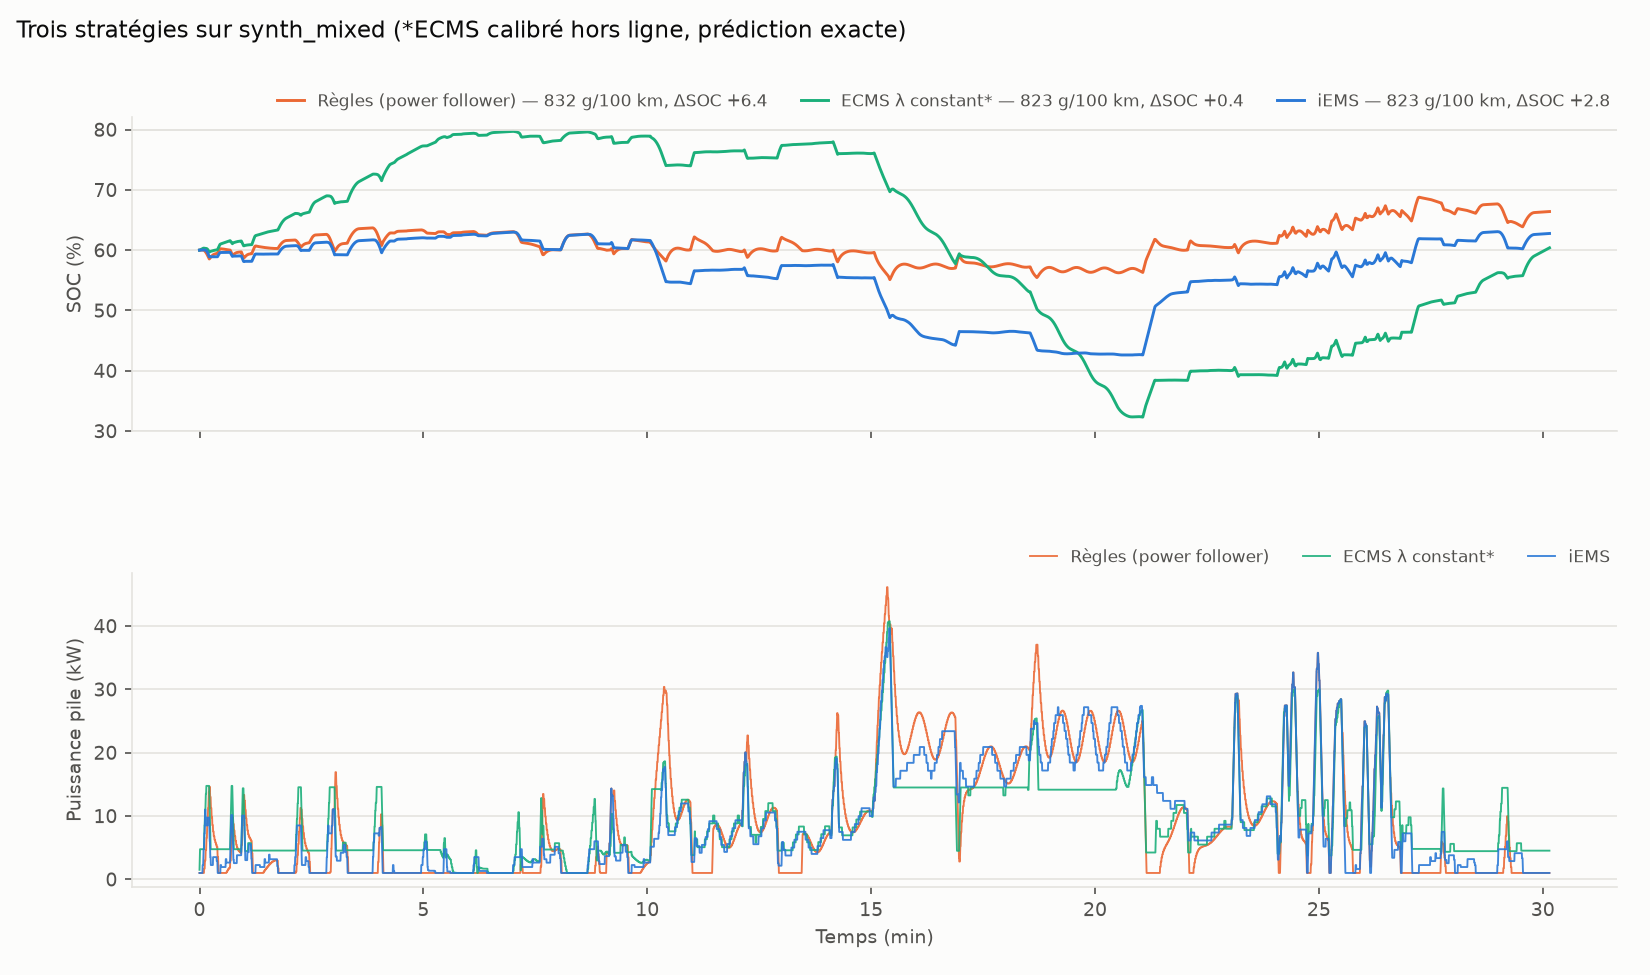
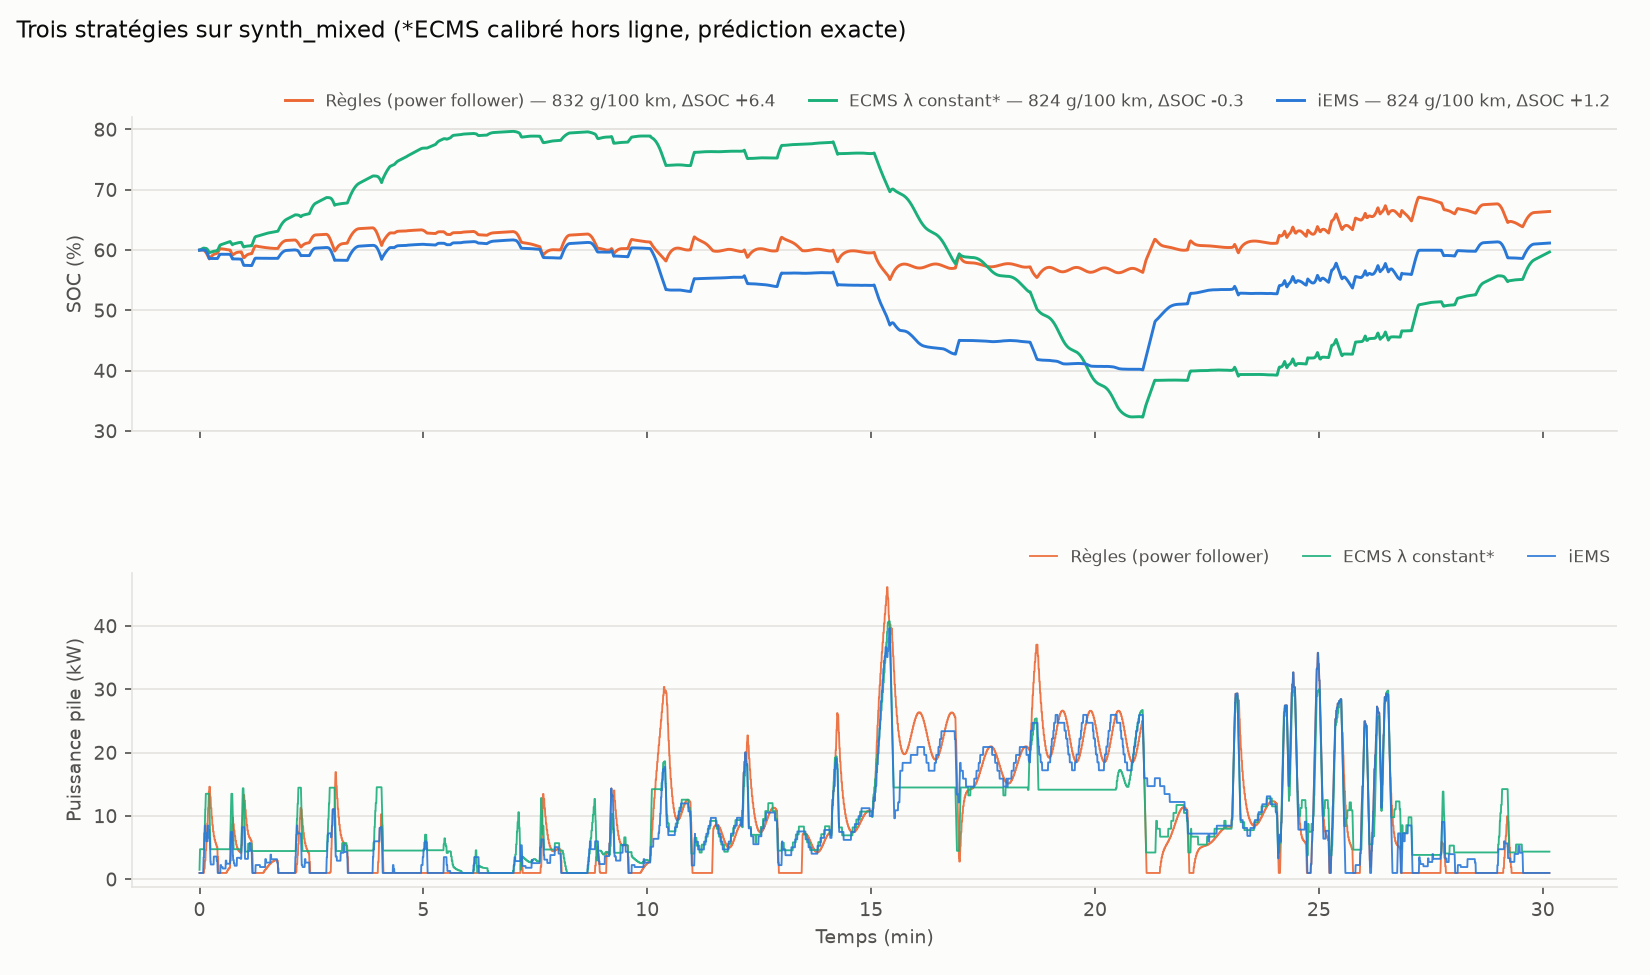
fix(ems): corrections issues de la revue de conformité à la passation
- λ0 = 1,51 = λ* de la dichotomie ecms_const sur WLTC (1,55 faisait dériver l'ECMS
  de +10 pts et saturer la batterie : 311 dépassements à l'arrêt)
- une seule estimation de la demande du prochain intervalle (CandidateSet.P_dem_next)
  pour l'admissibilité, le Hamiltonien et BAT_Power_cmd
- prédicteur : erreurs spécifiées à τ = 10 s quelle que soit la longueur de l'horizon
- config : validation de usage_table, with_updates typé et strict, P_min_W > 0,
  étiquettes de source (# littérature / # TODO-thèse) sur toutes les constantes
- DPR : seuils recalés par grille (sportif 1,3 m/s², autoroute 95 km/h ; précision
  moyenne 0,80 -> 0,87), min_samples borné par la fenêtre
- simulateur : masse d'H2 intégrée et journalisée (m_h2), garde sur cycle trop court ;
  candidates : garde sur prédiction vide ; ramp_limits robuste hors plage
- make_strategy ne masque plus les KeyError des constructeurs
- examples : sortie console UTF-8 ; rapport M1 régénéré (6/6, ΔSOC WLTC −0,55 pt)

diff --git a/src/iems/config.py b/src/iems/config.py
@@ -35,7 +35,7 @@ class FuelCellParams(_Params):
     """Système pile à combustible : carte de rendement en cloche, bornes et rampe."""
 
     P_max_W: float = Field(95e3, gt=0)  # TODO-thèse
-    P_min_W: float = Field(1e3, ge=0)  # TODO-thèse : puissance de ralenti
+    P_min_W: float = Field(1e3, gt=0)  # TODO-thèse : ralenti (v1 : la pile ne se coupe pas)
     ramp_W_per_s: float = Field(5e3, gt=0)  # TODO-thèse : rampe BOP
     # Carte η(P/P_max) en cloche : ≈0,40 à 3 %, pic ≈0,58 vers 20 %, ≈0,45 à pleine charge
     # (littérature : allure typique d'un système PEMFC automobile avec auxiliaires). Les points
@@ -117,10 +117,11 @@ class EMSParams(_Params):
 
     # Co-état λ (facteur d'équivalence, sans dimension grâce à k_h, cf. optimizer.py).
     # λ0 calibré en M1 par dichotomie ECMS sur WLTC (voir examples/compare_strategies.py).
-    lambda0: float = 1.55  # TODO-thèse : recalé par calibration ecms_const (M1)
+    # λ0 = λ* de la dichotomie ecms_const sur WLTC (examples/compare_strategies.py) — TODO-thèse
+    lambda0: float = 1.51
     Kp: float = 5.0  # TODO-thèse : gain proportionnel d'adaptation du co-état
-    lambda_min: float = 0.5
-    lambda_max: float = 5.0
+    lambda_min: float = 0.5  # littérature : bornes larges du facteur d'équivalence
+    lambda_max: float = 5.0  # littérature
 
     # Balance : usage batterie = table(schéma) modulée par SOC et vitesse normalisés.
     usage_table: dict[DrivingPattern, float] = Field(default_factory=_default_usage_table)
@@ -132,24 +133,25 @@ class EMSParams(_Params):
     v_norm_max: float = 36.1  # 130 km/h : vitesse de normalisation
 
     # Admissibilité : marge de sécurité appliquée aux limites batterie dans l'anticipation.
-    safety_margin: float = Field(0.05, ge=0, lt=1)  # relative
-    safety_margin_W: float = Field(1e3, ge=0)  # absolue (W)
+    safety_margin: float = Field(0.05, ge=0, lt=1)  # relative — TODO-thèse
+    safety_margin_W: float = Field(1e3, ge=0)  # absolue (W) — TODO-thèse
     prediction_margin: float = Field(0.05, ge=0, lt=1)  # relative à la demande prédite
     prediction_margin_accel: float = Field(0.10, ge=0)  # m/s² : incertitude d'accélération à 1 s
 
     # DPR v1 (règles à seuils sur fenêtre glissante).
-    dpr_window_s: float = Field(60.0, gt=0)
+    dpr_window_s: float = Field(60.0, gt=0)  # TODO-thèse : fenêtre glissante du DPR
 
     # Prédicteur v1 (oracle bruité).
-    predictor_noise: float = Field(0.03, ge=0)  # écart-type du biais d'amplitude à t+Hp
-    predictor_time_warp: float = Field(0.03, ge=0)  # écart-type de l'étirement temporel
-    seed: int = 42
+    # Erreurs spécifiées à τ = 10 s (NOISE_HORIZON_S), ordre de grandeur LSTM de la littérature.
+    predictor_noise: float = Field(0.03, ge=0)  # écart-type relatif du biais d'amplitude à 10 s
+    predictor_time_warp: float = Field(0.03, ge=0)  # écart-type de l'erreur de calendrier à 10 s
+    seed: int = 42  # déterminisme (section 7)
 
     # Baseline « power follower » + hystérésis SOC.
-    baseline_tau_s: float = Field(5.0, gt=0)  # constante de temps du filtre passe-bas
-    baseline_soc_low: float = 0.50  # entrée en mode recharge
-    baseline_soc_high: float = 0.62  # sortie du mode recharge
-    baseline_charge_W: float = 8e3  # surplus PàC en mode recharge
+    baseline_tau_s: float = Field(5.0, gt=0)  # constante de temps du filtre — TODO-thèse
+    baseline_soc_low: float = 0.50  # entrée en mode recharge — TODO-thèse
+    baseline_soc_high: float = 0.62  # entrée en mode délestage — TODO-thèse
+    baseline_charge_W: float = 8e3  # surplus PàC en mode recharge — TODO-thèse
 
     @model_validator(mode="after")
     def _check_rates(self) -> EMSParams:
@@ -158,6 +160,11 @@ class EMSParams(_Params):
             raise ValueError("Ts_ems doit être un multiple entier de Ts_model")
         if self.Hp < self.Ts_ems:
             raise ValueError("Hp doit être >= Ts_ems")
+        missing = [p.label for p in DrivingPattern if p not in self.usage_table]
+        if missing:
+            raise ValueError(f"usage_table incomplète : {missing}")
+        if any(not 0.0 <= u <= 1.0 for u in self.usage_table.values()):
+            raise ValueError("usage_table : valeurs attendues dans [0, 1]")
         return self
 
     @property
@@ -173,7 +180,9 @@ class IEMSConfig(_Params):
     fuel_cell: FuelCellParams = Field(default_factory=FuelCellParams)
     battery: BatteryParams = Field(default_factory=BatteryParams)
     ems: EMSParams = Field(default_factory=EMSParams)
-    soc0: float = Field(0.60, ge=0, le=1)  # SOC initial
+    # SOC initial. Près de soc_max, la batterie n'absorbe plus rien : à l'arrêt, le ralenti de la
+    # pile (P_min > P_aux) ne peut pas être écoulé, d'où des dépassements structurels.
+    soc0: float = Field(0.60, ge=0, le=1)
 
     @model_validator(mode="after")
     def _check_soc0(self) -> IEMSConfig:
@@ -181,11 +190,13 @@ class IEMSConfig(_Params):
             raise ValueError("soc0 hors de la fenêtre SOC utile")
         return self
 
-    def with_updates(self, **sections: dict) -> IEMSConfig:
-        """Copie avec mise à jour partielle, ex. ``cfg.with_updates(ems={"Kp": 5})``."""
+    def with_updates(self, **sections: object) -> IEMSConfig:
+        """Copie avec mise à jour partielle, ex. ``cfg.with_updates(ems={"Kp": 5}, soc0=0.5)``."""
         data = self.model_dump()
         for key, upd in sections.items():
-            if isinstance(upd, dict):
+            if key not in data:
+                raise KeyError(f"section inconnue : {key!r} (attendu : {sorted(data)})")
+            if isinstance(upd, dict) and isinstance(data[key], dict):
                 data[key].update(upd)
             else:
                 data[key] = upd

diff --git a/src/iems/strategies.py b/src/iems/strategies.py
@@ -79,11 +79,6 @@ class _Base:
             obs.P_fc, obs.P_dem_pred, obs.soc, obs.P_bat, self.cfg, self.fc, self.battery, obs.v
         )
 
-    def _next_demand(self, obs: EMSObservation) -> float:
-        """Demande moyenne prédite sur le prochain intervalle EMS."""
-        n = self.cfg.ems.substeps
-        return float(np.mean(obs.P_dem_pred[: n + 1]))
-
     @staticmethod
     def _cand_info(c: CandidateSet) -> dict[str, Any]:
         return {"P_lo": c.P_lo, "P_hi": c.P_hi, "degenerate": c.degenerate, "conflict": c.conflict}
@@ -121,7 +116,7 @@ class RulesBaseline(_Base):
         c = self._candidates(obs)
         cmd = min(max(target, c.P_lo), c.P_hi)
         info = {"mode": self._mode, **self._cand_info(c)}
-        return EMSCommand(cmd, self._next_demand(obs) - cmd, info)
+        return EMSCommand(cmd, c.P_dem_next - cmd, info)
 
 
 class ECMSConst(_Base):
@@ -135,7 +130,7 @@ class ECMSConst(_Base):
 
     def step(self, obs: EMSObservation) -> EMSCommand:
         c = self._candidates(obs)
-        out = optimize(c, self._next_demand(obs), self.lam, self.fc, self.battery)
+        out = optimize(c, c.P_dem_next, self.lam, self.fc, self.battery)
         info = {"lam": self.lam, "j_star": out.j_star, **self._cand_info(c)}
         return EMSCommand(out.FC_Power_cmd, out.BAT_Power_cmd, info)
 
@@ -154,7 +149,7 @@ class IEMS(_Base):
         pattern: DrivingPattern = self.dpr.recognize(obs.v_hist)
         bal = self.balance.step(obs.v, obs.soc, pattern)
         c = self._candidates(obs)
-        out = optimize(c, self._next_demand(obs), bal.lam, self.fc, self.battery)
+        out = optimize(c, c.P_dem_next, bal.lam, self.fc, self.battery)
         info = {
             "lam": bal.lam,
             "soc_target": bal.soc_target,
@@ -176,12 +171,10 @@ STRATEGIES: dict[str, Callable[..., Strategy]] = {
 
 def make_strategy(name: str, cfg: IEMSConfig, **kwargs: Any) -> Strategy:
     """Instancie une stratégie du registre par son nom."""
-    try:
-        return STRATEGIES[name](cfg, **kwargs)
-    except KeyError:
-        raise KeyError(
-            f"stratégie inconnue : {name!r} (disponibles : {list(STRATEGIES)})"
-        ) from None
+    factory = STRATEGIES.get(name)
+    if factory is None:
+        raise KeyError(f"stratégie inconnue : {name!r} (disponibles : {list(STRATEGIES)})")
+    return factory(cfg, **kwargs)
 
 
 @dataclass(frozen=True)

diff --git a/src/iems/dpt/predictor.py b/src/iems/dpt/predictor.py
@@ -3,9 +3,12 @@
 v1 : **oracle bruité**. On lit la tranche future du cycle et on la déforme de deux façons,
 tirées à chaque appel (graine fixée : déterministe) :
 
-* **erreur de calendrier** : le temps prédit est déformé, ``τ' = τ + β·τ²/Hp`` (une
-  accélération prévue arrive trop tôt ou trop tard, jusqu'à ``β·Hp`` en bout d'horizon) ;
-* **erreur d'amplitude** : biais multiplicatif ``γ·(τ/Hp)²`` qui vaut ``γ`` en bout d'horizon.
+* **erreur de calendrier** : le temps prédit est déformé, ``τ' = τ + β·τ²/T_ref`` (une
+  accélération prévue arrive trop tôt ou trop tard, de ``β·T_ref`` à τ = T_ref) ;
+* **erreur d'amplitude** : biais multiplicatif ``γ·(τ/T_ref)²`` qui vaut ``γ`` à τ = T_ref.
+
+``T_ref = 10 s`` (``NOISE_HORIZON_S``) : l'erreur à τ secondes ne dépend pas de la longueur de
+l'horizon demandé (un Hp court ne rend pas le prédicteur moins précis à 1 s).
 
 Les deux erreurs sont **d'ordre 2 en τ** : nulles en valeur *et en pente* à l'instant
 courant. C'est la propriété physique d'un prédicteur embarqué : la vitesse et l'accélération
@@ -35,6 +38,7 @@ import numpy as np
 from numpy.typing import NDArray
 
 FloatArray = NDArray[np.float64]
+NOISE_HORIZON_S = 10.0  # horizon de référence auquel noise et time_warp sont spécifiés
 
 
 class SpeedPredictor(Protocol):
@@ -68,7 +72,8 @@ class NoisyOraclePredictor:
         self.seed = seed
         self.rho = rho
         self._tau = np.arange(self.n_h + 1, dtype=float)  # en pas modèle
-        self._ramp2 = (self._tau / max(self.n_h, 1)) ** 2
+        self._tau_s = self._tau * dt / NOISE_HORIZON_S  # τ / T_ref
+        self._ramp2 = self._tau_s**2
         self.reset()
 
     def reset(self) -> None:
@@ -88,6 +93,6 @@ class NoisyOraclePredictor:
         self._gamma = self.rho * self._gamma + innov * float(self.rng.normal(0.0, self.noise))
         beta = float(np.clip(self._beta, -0.5, 0.5))
         gamma = self._gamma
-        tau_w = np.clip(self._tau * (1.0 + beta * self._tau / max(self.n_h, 1)), 0.0, self.n_h)
+        tau_w = np.clip(self._tau * (1.0 + beta * self._tau_s), 0.0, self.n_h)
         warped = np.interp(tau_w, self._tau, future)
         return np.maximum(warped * (1.0 + gamma * self._ramp2), 0.0)

diff --git a/src/iems/simulator.py b/src/iems/simulator.py
@@ -53,6 +53,7 @@ class SimResult:
     P_spill: FloatArray
     P_unmet: FloatArray
     soc: FloatArray
+    m_h2: FloatArray  # masse d'H2 consommée cumulée (kg), N+1 points
     # pas EMS
     t_ems: FloatArray
     FC_Power_cmd: FloatArray
@@ -93,6 +94,8 @@ def simulate(
     c = cycle.resample(dt)
     dem = power_demand(c.t, c.v, cfg.vehicle)
     N = len(c.t) - 1
+    if N < 1:
+        raise ValueError("cycle trop court : au moins deux échantillons après rééchantillonnage")
     n_ems = -(-N // n_sub)
     if predictor is None:
         predictor = NoisyOraclePredictor(
@@ -107,6 +110,8 @@ def simulate(
     spill_log = np.zeros(N)
     unmet_log = np.zeros(N)
     soc_log = np.zeros(N + 1)
+    h2_log = np.zeros(N + 1)
+    lhv = cfg.fuel_cell.lhv_J_per_kg
     t_ems = np.zeros(n_ems)
     fc_cmd = np.zeros(n_ems)
     bat_cmd = np.zeros(n_ems)
@@ -176,6 +181,7 @@ def simulate(
             P_fc_log[i], P_bat_log[i] = P_fc, P_bat
             fr_log[i], spill_log[i], unmet_log[i] = friction, spill, unmet
             soc_log[i + 1] = soc
+            h2_log[i + 1] = h2_log[i] + (fc.a + fc.b * P_fc + fc.c * P_fc * P_fc) / lhv * dt
 
     return SimResult(
         cycle=cycle,
@@ -190,6 +196,7 @@ def simulate(
         P_spill=spill_log,
         P_unmet=unmet_log,
         soc=soc_log,
+        m_h2=h2_log,
         t_ems=t_ems,
         FC_Power_cmd=fc_cmd,
         BAT_Power_cmd=bat_cmd,

diff --git a/src/iems/candidates.py b/src/iems/candidates.py
@@ -47,6 +47,7 @@ class CandidateSet:
     ceiling: float  # plafond anticipé (W)
     degenerate: bool  # vecteur de secours utilisé
     conflict: bool  # plancher > plafond : la batterie ne peut pas tout boucler
+    P_dem_next: float = 0.0  # demande moyenne prédite sur le prochain intervalle EMS (W)
 
 
 def interval_extrema(
@@ -143,9 +144,12 @@ def build_candidates(
     ``v`` : vitesse courante (m/s), pour la marge inertielle de prédiction.
     """
     ems = cfg.ems
+    P_dem_pred = np.asarray(P_dem_pred, dtype=float)
+    if P_dem_pred.size == 0:
+        raise ValueError("P_dem_pred est vide : il faut au moins la demande courante")
     P_lo, P_hi = fc.ramp_limits(P_fc_now, ems.Ts_ems)
 
-    p_max, p_min, p_mean = interval_extrema(np.asarray(P_dem_pred, dtype=float), ems.substeps)
+    p_max, p_min, p_mean = interval_extrema(P_dem_pred, ems.substeps)
     d_hi, d_lo = dilate(p_max, p_min)
     floor, ceiling = anticipation_bounds(d_hi, d_lo, soc, cfg, battery, v)
     conflict = False
@@ -203,4 +207,6 @@ def build_candidates(
         + np.maximum(np.abs(P_bat - P_bat_prev) - r_bat, 0.0)
     )
     valid = excess <= 1e-6
-    return CandidateSet(P_fc, P_bat, valid, excess, lo, hi, floor, ceiling, degenerate, conflict)
+    return CandidateSet(
+        P_fc, P_bat, valid, excess, lo, hi, floor, ceiling, degenerate, conflict, P_dem_next
+    )

diff --git a/src/iems/dpt/dpr.py b/src/iems/dpt/dpr.py
@@ -33,8 +33,10 @@ class DPRFeatures:
 
 @dataclass(frozen=True)
 class DPRThresholds:
-    sport_a_p95: float = 1.6  # TODO-thèse : |a| au 95e centile au-delà duquel → Sportif
-    highway_v_mean: float = 85 * KMH  # TODO-thèse
+    # Seuils recalés par recherche en grille sur les 4 cycles synthétiques étiquetés (précision
+    # moyenne 0,80 → 0,87, rappel sportif 0,47 → 0,85) ; TODO-thèse : centres de classes FCM.
+    sport_a_p95: float = 1.3  # |a| au 95e centile au-delà duquel → Sportif
+    highway_v_mean: float = 95 * KMH
     road_v_mean: float = 50 * KMH  # TODO-thèse
     traffic_v_max: float = 30 * KMH  # TODO-thèse
     traffic_stop_ratio: float = 0.45  # TODO-thèse
@@ -84,7 +86,8 @@ class DrivingPatternRecognizer:
         self.dt = dt
         self.th = thresholds or DPRThresholds()
         self.default = default
-        self.min_samples = min_samples
+        # Jamais plus que la fenêtre, sinon le DPR resterait muet (toujours ``default``).
+        self.min_samples = min(min_samples, self.n)
 
     def recognize(self, v_hist: NDArray[np.float64]) -> DrivingPattern:
         """Schéma courant à partir des ``window_s`` dernières secondes de ``v_hist``."""

diff --git a/examples/m1_report.py b/examples/m1_report.py
@@ -190,6 +190,8 @@ def sensitivity(cfg: IEMSConfig) -> list[dict[str, object]]:
 
 
 def main(argv: list[str] | None = None) -> int:
+    if hasattr(sys.stdout, "reconfigure"):
+        sys.stdout.reconfigure(encoding="utf-8", errors="replace")  # console Windows cp1252
     ap = argparse.ArgumentParser(
         description=__doc__, formatter_class=argparse.RawDescriptionHelpFormatter
     )
@@ -223,6 +225,9 @@ def main(argv: list[str] | None = None) -> int:
         f"défaut de `config.py` (SOC initial {cfg.soc0:.2f}, Ts_model {cfg.ems.Ts_model} s, "
         f"Ts_ems {cfg.ems.Ts_ems} s, Hp {cfg.ems.Hp:.0f} s, λ0 {cfg.ems.lambda0}, "
         f"Kp {cfg.ems.Kp}).",
+        "",
+        "Le cycle `wltc` est une reconstruction structurelle du WLTC classe 3b (durées, distances "
+        "et vitesses max des 4 phases conformes au GTR 15), pas la table officielle point à point.",
         "",
         "## Critères d'acceptation",
         "",

diff --git a/src/iems/metrics.py b/src/iems/metrics.py
@@ -15,7 +15,6 @@ from dataclasses import asdict, dataclass, field
 import numpy as np
 
 from iems.models.battery import Battery
-from iems.models.fuel_cell import FuelCell
 from iems.simulator import SimResult
 
 _TOL_W = 1.0  # W : tolérance numérique sur les dépassements de puissance
@@ -91,10 +90,10 @@ class Metrics:
 def compute_metrics(res: SimResult) -> Metrics:
     cfg = res.cfg
     dt = res.dt
-    fc, bat = FuelCell(cfg.fuel_cell), Battery(cfg.battery)
+    bat = Battery(cfg.battery)
     lhv = cfg.fuel_cell.lhv_J_per_kg
 
-    m_h2 = float(np.sum(fc.h2_rate(res.P_fc)) * dt)
+    m_h2 = float(res.m_h2[-1])  # intégrée par le simulateur (= Σ ṁ(P_fc)·dt, P_fc constant par pas)
     E_fc = float(np.sum(res.P_fc) * dt)
     E_h2 = m_h2 * lhv
     eta_fc = E_fc / E_h2 if E_h2 > 0 else float(np.mean(cfg.fuel_cell.eta_map_eta))

diff --git a/src/iems/balance.py b/src/iems/balance.py
@@ -7,8 +7,8 @@ Pipeline du bloc (section 4.3 de la passation) :
    interface) :
 
    * **schéma de conduite** : usage nominal (sportif ≈ 0,85 ; autoroute ≈ 0,30 ; trafic et
-     urbain intermédiaires). ``u = 0,5`` est neutre (λ = λ0) ; au-dessus, l'EMS sollicite la
-     batterie, en dessous il la recharge ;
+     urbain intermédiaires). ``u ≈ 0,5`` est neutre (λ ≈ λ0, à l'asymétrie η_ch/η_dis de la
+     plage atteignable près) ; au-dessus, l'EMS sollicite la batterie, en dessous il la recharge ;
    * **réserve cinétique** : la référence de SOC baisse avec la vitesse,
      ``SOC_ref(v) = soc_ref − kinetic_recovery · ½·m·v² / E_cap``. À 120 km/h, le véhicule
      « stocke » ≈ 1 MJ d'énergie cinétique dont une partie reviendra dans la batterie au

diff --git a/examples/compare_strategies.py b/examples/compare_strategies.py
@@ -386,6 +386,8 @@ def make_figures(runs: list[CycleRun], cfg: IEMSConfig, out: Path) -> list[Path]
 
 
 def main(argv: list[str] | None = None) -> int:
+    if hasattr(sys.stdout, "reconfigure"):
+        sys.stdout.reconfigure(encoding="utf-8", errors="replace")  # console Windows cp1252
     ap = argparse.ArgumentParser(
         description=__doc__, formatter_class=argparse.RawDescriptionHelpFormatter
     )

diff --git a/src/iems/models/fuel_cell.py b/src/iems/models/fuel_cell.py
@@ -67,4 +67,5 @@ class FuelCell:
     def ramp_limits(self, P_now: float, dt: float) -> tuple[float, float]:
         """Plage atteignable en ``dt`` compte tenu de la rampe et des bornes statiques."""
         dP = self.p.ramp_W_per_s * dt
+        P_now = self.clip(P_now)  # une plage inversée n'a pas de sens
         return max(self.p.P_min_W, P_now - dP), min(self.p.P_max_W, P_now + dP)

diff --git a/src/iems/models/cycles.py b/src/iems/models/cycles.py
@@ -381,7 +381,7 @@ def load_wltc() -> Cycle:
         v,
         None,
         "WLTC classe 3b (reconstruction structurelle, cf. cycles.py)",
-        {"phase_bounds_s": WLTC_PHASE_BOUNDS_S},
+        {"phase_bounds_s": WLTC_PHASE_BOUNDS_S, "reconstruction": True},
     )
 
 
